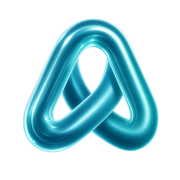
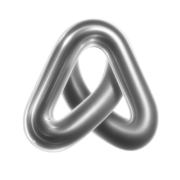
Update personal assistant branding and add brand mark component
Replit-Commit-Author: Agent

diff --git a/artifacts/personal-assistant/index.html b/artifacts/personal-assistant/index.html
@@ -65,7 +65,7 @@
           "@id": "https://dev.askolo.app/#organization",
           "name": "Askolo",
           "url": "https://dev.askolo.app/",
-          "logo": "https://dev.askolo.app/logo.png"
+          "logo": "https://dev.askolo.app/logo-neutral.png"
         }
       ]
     }
@@ -77,7 +77,7 @@
         <header class="header">
           <div class="container header-content">
             <a href="/" class="logo">
-              <img src="/logo.png" alt="Askolo" width="64" height="64" />
+              <img src="/logo-neutral.png" alt="Askolo" width="64" height="64" />
               <h2 style="margin:0; font-size: inherit; font-weight: inherit;">Askolo</h2>
             </a>
             <nav class="nav" aria-label="Primary">
@@ -93,7 +93,7 @@
           <section class="hero" aria-labelledby="fallback-heading">
             <div class="container">
               <div class="badge">✦ Your personal and family assistant</div>
-              <img src="/logo.png" alt="" class="hero-logo" width="64" height="64" />
+              <img src="/logo-neutral.png" alt="" class="hero-logo" width="64" height="64" />
               <div id="fallback-heading" role="heading" aria-level="1">Your AI personal assistant for calmer days</div>
               <p>
                 Askolo brings habits, goals, daily plans, calendar, chores, notes, and action items into one calm workspace — with an AI coach that helps individuals and families stay on track.
@@ -233,7 +233,7 @@
         <footer class="footer">
           <div class="container footer-content">
             <div class="logo">
-              <img src="/logo.png" alt="" width="64" height="64" style="height: 1.25rem; width: auto; opacity: 0.8;" />
+              <img src="/logo-neutral.png" alt="" width="64" height="64" style="height: 1.25rem; width: auto; opacity: 0.8;" />
               <span>© 2026 Askolo</span>
             </div>
             <div class="footer-links">

diff --git a/artifacts/personal-assistant/src/components/layout/public-layout.tsx b/artifacts/personal-assistant/src/components/layout/public-layout.tsx
@@ -6,7 +6,7 @@ import { cn } from '@/lib/utils';
 import { Moon, Puzzle, Sparkles, Sun } from 'lucide-react';
 import { ExpandedTabsNav } from '@/components/layout/expanded-tabs-nav';
 import { SiteOriginLink } from '@/components/layout/site-origin-link';
-import logoUrl from '/logo.png';
+import { BrandMark } from '@/components/brand-mark';
 import { toAppUrl } from '@/lib/site-domains';
 import { provenanceLabel } from '@/lib/runtime-environment';
 import { useLocale } from '@/contexts/locale-context';
@@ -44,7 +44,7 @@ export function PublicLayout({
       <header className="sticky top-0 z-50 w-full px-3 pt-3">
         <div className="mx-auto flex h-20 w-full max-w-6xl items-center justify-between rounded-full border border-border/60 bg-background/35 px-4 shadow-sm backdrop-blur-md sm:px-6 md:grid md:grid-cols-[minmax(0,1fr)_auto_minmax(0,1fr)]">
           <Link href="/" aria-label="Askolo" className="group flex shrink-0 items-center justify-self-start">
-            <img src={logoUrl} alt="Askolo" width={64} height={64} className="h-10 w-auto object-contain" />
+            <BrandMark className="size-10" />
           </Link>
           <ExpandedTabsNav
             ariaLabel="Page sections"
@@ -108,7 +108,7 @@ export function PublicLayout({
       <footer className="relative z-10 mt-auto border-t border-border/60 bg-background/35 py-8 shadow-sm backdrop-blur-md">
         <div className="max-w-6xl mx-auto px-4 sm:px-6 flex flex-col sm:flex-row gap-4 sm:gap-6 justify-between items-center text-sm text-muted-foreground">
           <div className="flex items-center gap-3">
-            <img src={logoUrl} alt="" width={64} height={64} className="h-8 w-auto object-contain" />
+            <BrandMark className="size-8" decorative />
             <span>© {new Date().getFullYear()} Askolo</span>
             <span aria-label="Build provenance" className="text-xs opacity-70">
               {provenanceLabel()}

diff --git a/artifacts/personal-assistant/src/pages/login.tsx b/artifacts/personal-assistant/src/pages/login.tsx
@@ -32,7 +32,7 @@ import { TurnstileWidget } from '@/components/auth/turnstile-widget';
 import { turnstileActionForMode, type TurnstileAction } from '@/lib/auth-turnstile';
 
 const basePath = import.meta.env.BASE_URL.replace(/\/$/, '');
-import logoUrl from '/logo.png';
+import { BrandMark } from '@/components/brand-mark';
 
 type PasswordMode =
   | 'signin'
@@ -453,7 +453,7 @@ export function LoginPage() {
       <div className="pointer-events-none absolute inset-x-0 top-0 h-72 bg-gradient-to-br from-primary/15 via-primary/5 to-transparent" />
       <section dir="auto" lang="en" className="relative hidden flex-col justify-between border-e border-border/60 p-10 lg:flex xl:p-16" aria-label="Askolo overview">
         <div className="flex items-center gap-4">
-          <img src={logoUrl} alt="" width={64} height={64} className="h-16 w-16 object-contain" />
+          <BrandMark className="size-16" decorative />
           <span className="font-display text-2xl font-semibold tracking-tight">Askolo</span>
         </div>
         <div className="max-w-xl">
@@ -484,7 +484,7 @@ export function LoginPage() {
         className="relative z-10 flex w-full flex-col items-center justify-center px-4 py-10 text-center sm:px-8 lg:min-h-dvh"
       >
         <div className="mb-10 flex items-center gap-4 lg:hidden">
-          <img src={logoUrl} alt="" width={64} height={64} className="h-14 w-14 object-contain" />
+          <BrandMark className="size-14" decorative />
           <span className="font-display text-2xl font-semibold tracking-tight">Askolo</span>
         </div>
 

diff --git a/artifacts/personal-assistant/src/components/layout/app-layout.tsx b/artifacts/personal-assistant/src/components/layout/app-layout.tsx
@@ -30,7 +30,7 @@ import { BalanceIndicator } from '@/components/credits/balance-indicator';
 import { useGoogleConnectionCheck } from '@/hooks/use-google-connection-check';
 import { useCreditBalance } from '@/hooks/use-credit-balance';
 import { useIsMobile } from '@/hooks/use-mobile';
-import logoUrl from '/logo.png';
+import { BrandMark } from '@/components/brand-mark';
 import { isAppProductionHost, toPublicUrl } from '@/lib/site-domains';
 import { useAppAuth } from '@/contexts/auth-context';
 import { useLocale } from '@/contexts/locale-context';
@@ -79,7 +79,7 @@ function NavigationPanel({
           onClick={onNavigate}
           className="flex items-center gap-2 group"
         >
-          <img src={logoUrl} alt="Askolo" className="h-7 w-auto object-contain" />
+          <BrandMark className="size-7" />
           <span className="font-display text-xl font-bold tracking-tight text-sidebar-foreground">
             Askolo
           </span>
@@ -387,7 +387,7 @@ function AppLayoutInner({ children }: { children: ReactNode }) {
               <Menu className="h-5 w-5" aria-hidden="true" />
             </Button>
             <Link href="/home" className="flex items-center gap-2 group">
-              <img src={logoUrl} alt="Askolo" className="h-7 w-auto object-contain" />
+              <BrandMark className="size-7" />
               <span className="font-display text-xl font-bold tracking-tight transition-colors group-hover:text-primary">
                 Askolo
               </span>

diff --git a/artifacts/personal-assistant/src/pages/landing.tsx b/artifacts/personal-assistant/src/pages/landing.tsx
@@ -20,7 +20,7 @@ import { AskoloTunnelConcept } from '@/components/hero-animation/AskoloTunnelCon
 import { useAskoloTheme } from '@/lib/theme';
 import { PublicLayout } from '@/components/layout/public-layout';
 import { BrandSloganReveal } from '@/components/landing/brand-slogan';
-import logoUrl from '/logo.png';
+import { BrandMark } from '@/components/brand-mark';
 import { toAppUrl } from '@/lib/site-domains';
 import { setPageMetadata } from '@/lib/seo';
 
@@ -126,15 +126,9 @@ export function LandingPage() {
               initial={prefersReducedMotion ? false : { opacity: 0, y: 20 }}
               animate={{ opacity: 1, y: 0 }}
               transition={prefersReducedMotion ? { duration: 0 } : { duration: 0.7, delay: 0.1, ease: 'easeOut' }}
-              className="mb-5 h-40 w-auto sm:h-44"
+              className="mb-5 size-40 sm:size-44"
             >
-              <img
-                src={logoUrl}
-                alt=""
-                width={64}
-                height={64}
-                className="h-full w-auto object-contain drop-shadow-2xl"
-              />
+              <BrandMark className="size-full drop-shadow-2xl" decorative />
             </motion.div>
 
             <BrandSloganReveal />

diff --git a/artifacts/personal-assistant/src/pages/email.tsx b/artifacts/personal-assistant/src/pages/email.tsx
@@ -30,7 +30,7 @@ import { Textarea } from '@/components/ui/textarea';
 import { Label } from '@/components/ui/label';
 import { useToast } from '@/hooks/use-toast';
 import { cn } from '@/lib/utils';
-import logoUrl from '/logo.png';
+import { BrandMark } from '@/components/brand-mark';
 import { useLocale } from '@/contexts/locale-context';
 
 const PRIORITY_ORDER = ['urgent', 'follow-up', 'fyi', 'archive'] as const;
@@ -165,7 +165,7 @@ export function EmailPage() {
         <EmailPageHeader connected={false} />
         <section className="flex flex-col items-center py-10 text-center">
           <div className="mb-6 flex size-16 items-center justify-center rounded-2xl border border-border bg-primary/10">
-            <img src={logoUrl} alt="" className="size-10 object-contain" />
+            <BrandMark className="size-10" decorative />
           </div>
           <h2 className="mb-4 font-display text-[16px] font-medium">Connect Email Accounts to Start Triaging Your Inbox  </h2>
           <Button size="lg" onClick={() => (window.location.href = GOOGLE_CONNECT_URL)} className="group">

diff --git a/artifacts/personal-assistant/src/components/layout/app-sidebar-layout.tsx b/artifacts/personal-assistant/src/components/layout/app-sidebar-layout.tsx
@@ -11,7 +11,7 @@ import {
   NotebookPen,
   UserCircle,
 } from 'lucide-react';
-import logoUrl from '/logo.png';
+import { BrandMark } from '@/components/brand-mark';
 import { AssistantProvider } from '@/contexts/assistant-context';
 import { KeyboardShortcutProvider } from '@/contexts/keyboard-shortcut-context';
 import { NotificationProvider } from '@/contexts/notification-context';
@@ -222,7 +222,7 @@ function NavigationPanel({
             className="flex min-w-0 flex-1 items-center gap-2 rounded-md text-sidebar-foreground focus-visible:outline-none focus-visible:ring-2 focus-visible:ring-sidebar-ring"
             data-testid="link-brand-dashboard"
           >
-            <img src={logoUrl} alt="Askolo" className="h-7 w-auto object-contain" />
+            <BrandMark className="size-7" />
             <span className="truncate font-display text-xl font-bold tracking-tight">Askolo</span>
           </Link>
         </div>

diff --git a/artifacts/personal-assistant/src/components/brand-mark.tsx b/artifacts/personal-assistant/src/components/brand-mark.tsx
@@ -1,0 +1,32 @@
+import type { CSSProperties } from 'react';
+import logoMaskUrl from '/logo.png';
+import { cn } from '@/lib/utils';
+
+const maskStyle: CSSProperties = {
+  maskImage: `url("${logoMaskUrl}")`,
+  maskPosition: 'center',
+  maskRepeat: 'no-repeat',
+  maskSize: 'contain',
+  WebkitMaskImage: `url("${logoMaskUrl}")`,
+  WebkitMaskPosition: 'center',
+  WebkitMaskRepeat: 'no-repeat',
+  WebkitMaskSize: 'contain',
+};
+
+export function BrandMark({
+  className,
+  decorative = false,
+}: {
+  className?: string;
+  decorative?: boolean;
+}) {
+  return (
+    <span
+      role={decorative ? undefined : 'img'}
+      aria-label={decorative ? undefined : 'Askolo'}
+      aria-hidden={decorative || undefined}
+      className={cn('inline-block shrink-0 bg-primary', className)}
+      style={maskStyle}
+    />
+  );
+}

diff --git a/.agents/memory/MEMORY.md b/.agents/memory/MEMORY.md
@@ -73,4 +73,5 @@
 - [Azure assistant speech privacy](azure-assistant-speech-output.md) — Azure semi-live replies complement AssemblyAI live mode and require independent consent and owner-scoped stored responses.
 - [Askolo planning model](askolo-planning-model.md) — unify chores, habits, recurring commitments, and action items as tasks; plans link tasks, goals stay contextual, calendar events remain events, reminders wait for automation.
 - [Space-centric product scope](workspace-first-product-scope.md) — use Spaces and Home in product UI; support family and professional Spaces, with explicit Agent scope.
+- [Askolo mark colors](askolo-mark-colors.md) — the user finds the fixed teal mark off; use the active theme in the UI and neutral static browser/home-screen icons.
 

diff --git a/.agents/memory/askolo-mark-colors.md b/.agents/memory/askolo-mark-colors.md
@@ -1,0 +1,10 @@
+---
+name: Askolo mark colors
+description: User feedback and the chosen color behavior for the Askolo brand mark.
+---
+
+The user said the existing teal mark feels off and suggested either a neutral mark or one that follows the app's theme preset. The current implementation uses the active preset for in-app marks and neutral static assets for browser and home-screen icons.
+
+**Why:** browser and installed-app icon surfaces do not reliably inherit the live in-app theme, while the in-app logo can use the semantic theme color.
+
+**How to apply:** keep these two surfaces distinct when changing the mark again unless the user asks for a different treatment.
